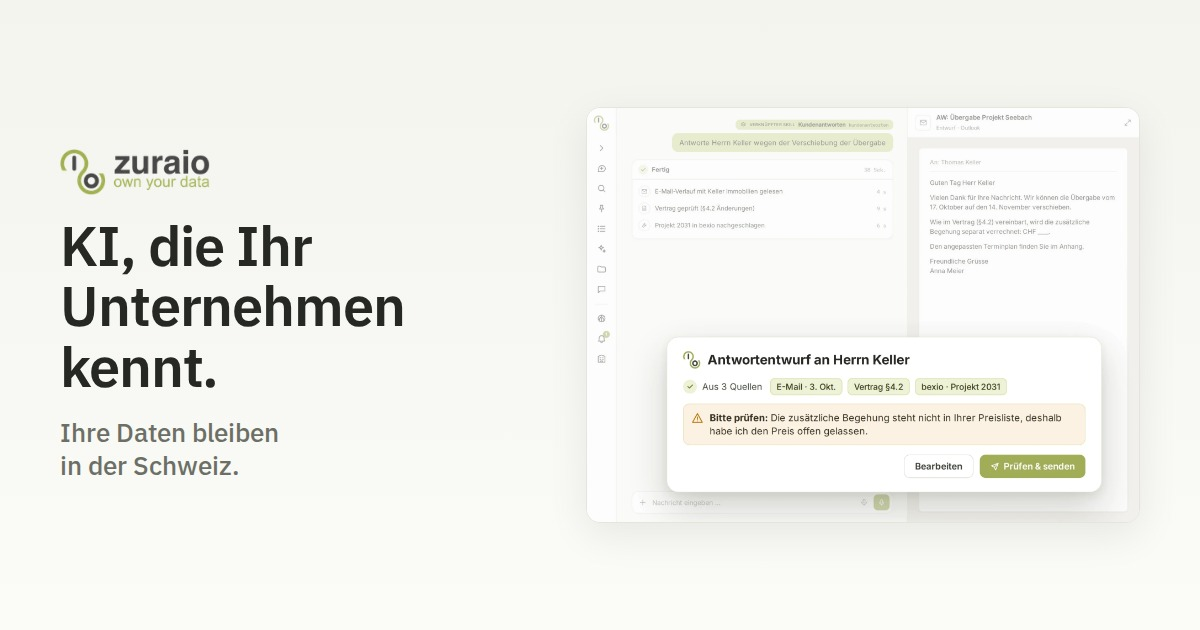
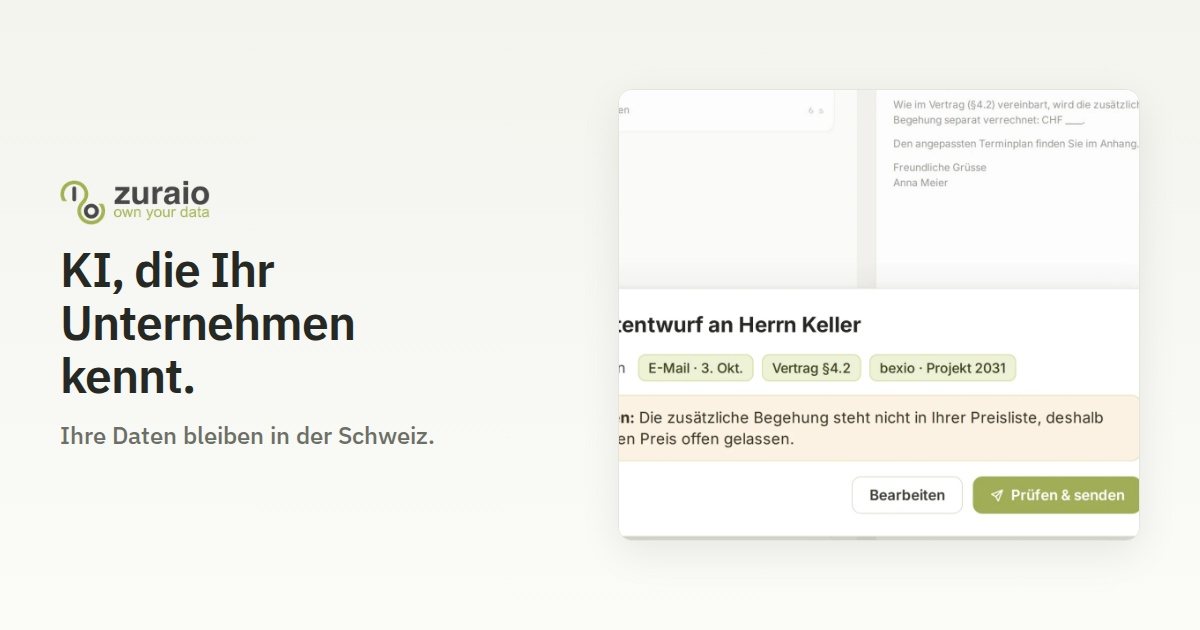
Run 11f: OG share layout polish and hero crop

diff --git a/scripts/og-image-template.html b/scripts/og-image-template.html
@@ -21,14 +21,14 @@
     width: 1200px;
     height: 630px;
     padding: 60px;
-    gap: 32px;
+    gap: 24px;
   }
   .copy {
-    flex: 0 0 45%;
+    flex: 0 0 40%;
     min-width: 0;
     display: flex;
     flex-direction: column;
-    gap: 20px;
+    gap: 18px;
   }
   .logo {
     width: 150px;
@@ -36,46 +36,47 @@
     display: block;
   }
   .primary {
-    font-size: 56px;
+    font-size: 48px;
     font-weight: 600;
-    line-height: 1.08;
+    line-height: 1.1;
     letter-spacing: -0.02em;
-    max-width: 11ch;
+    display: -webkit-box;
+    -webkit-box-orient: vertical;
+    -webkit-line-clamp: 3;
+    overflow: hidden;
   }
   .secondary {
-    font-size: 26px;
+    font-size: 24px;
     font-weight: 500;
-    line-height: 1.25;
+    line-height: 1.28;
     color: #6c6f66;
-    max-width: 14ch;
+    display: -webkit-box;
+    -webkit-box-orient: vertical;
+    -webkit-line-clamp: 2;
+    overflow: hidden;
   }
   .visual {
-    flex: 1 1 55%;
+    flex: 1 1 60%;
     min-width: 0;
     height: 100%;
     display: flex;
     align-items: center;
-    justify-content: center;
-    padding: 40px 0 40px 8px;
+    justify-content: flex-end;
+    padding: 0;
   }
   .frame {
-    max-height: calc(630px - 120px);
-    max-width: 100%;
     border: 1px solid #e4e6dc;
     border-radius: 14px;
     box-shadow: 0 12px 40px rgba(15, 16, 14, 0.08);
     overflow: hidden;
     background: #fff;
-    display: flex;
-    align-items: center;
-    justify-content: center;
+    line-height: 0;
   }
   .frame img {
     display: block;
-    max-height: calc(630px - 120px - 40px);
-    max-width: 100%;
-    width: auto;
+    width: 520px;
     height: auto;
+    max-height: calc(630px - 120px);
     object-fit: contain;
   }
 </style>
